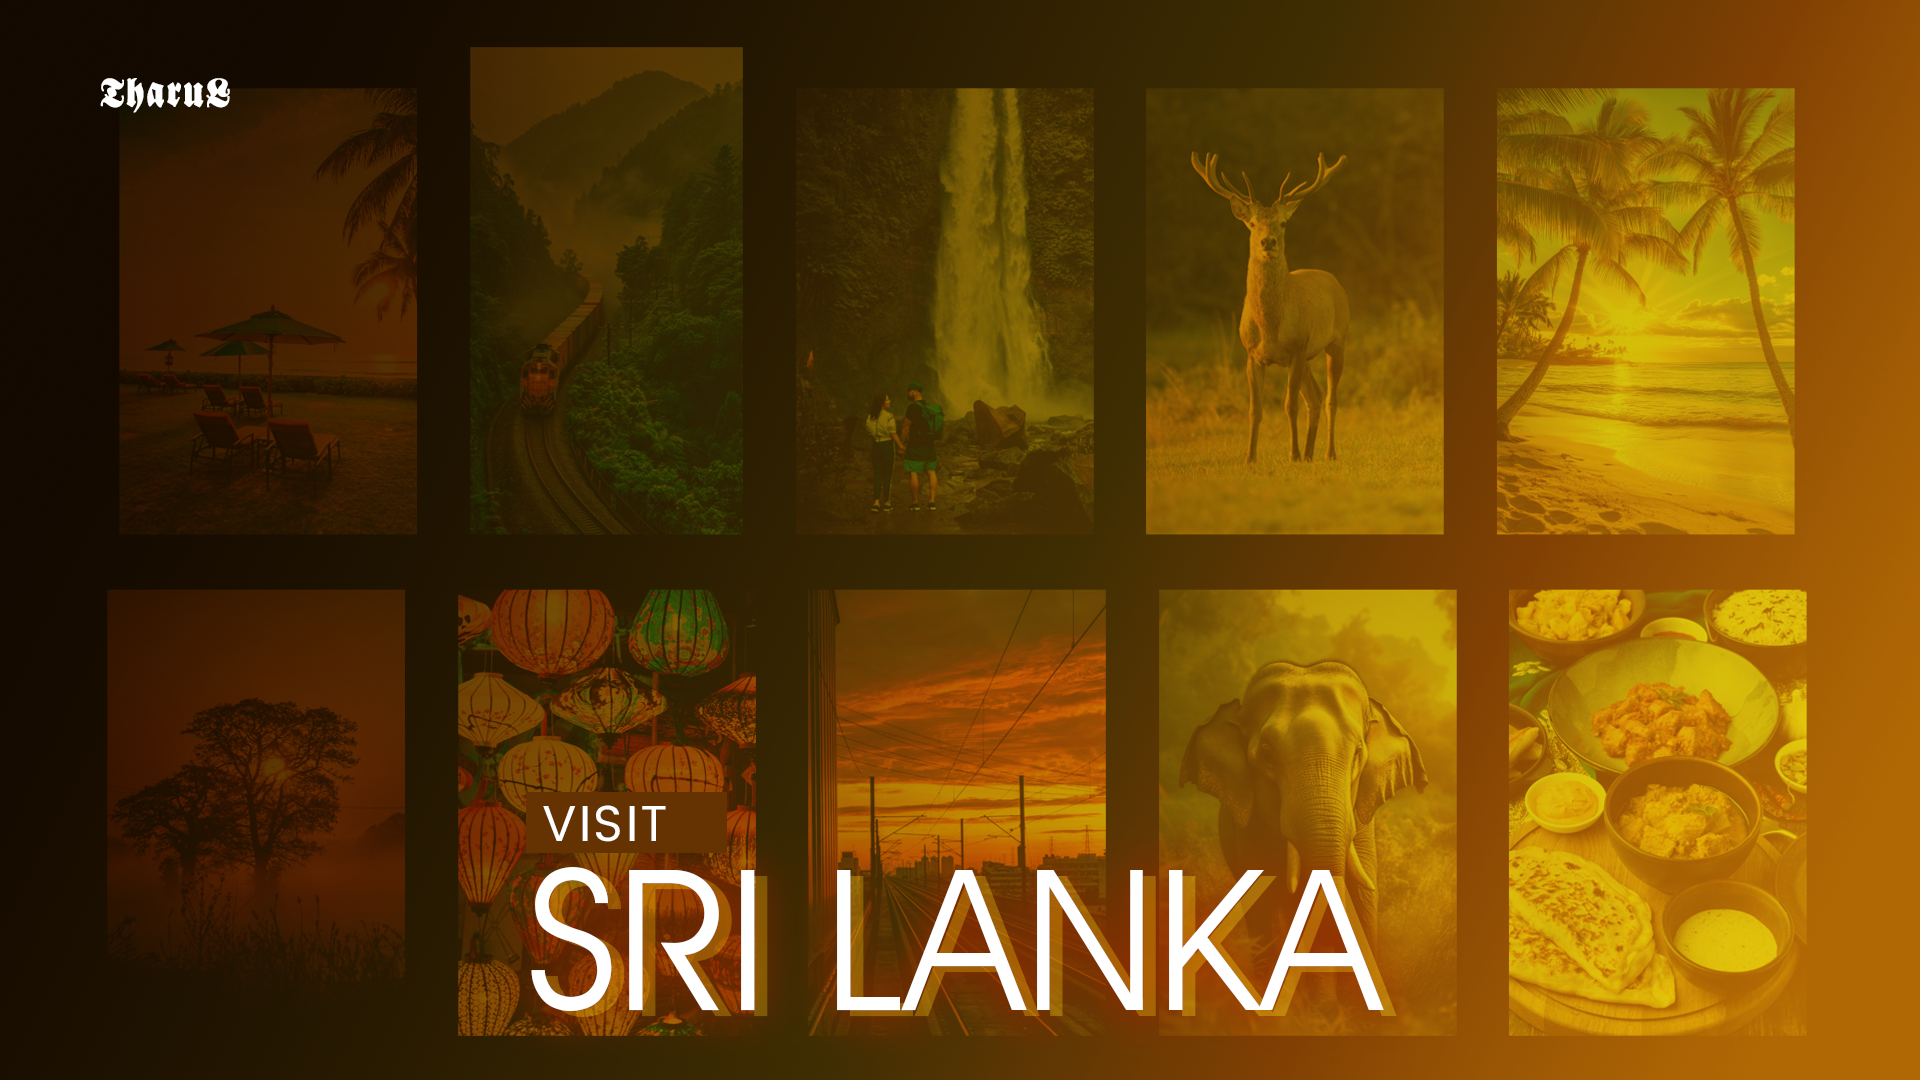
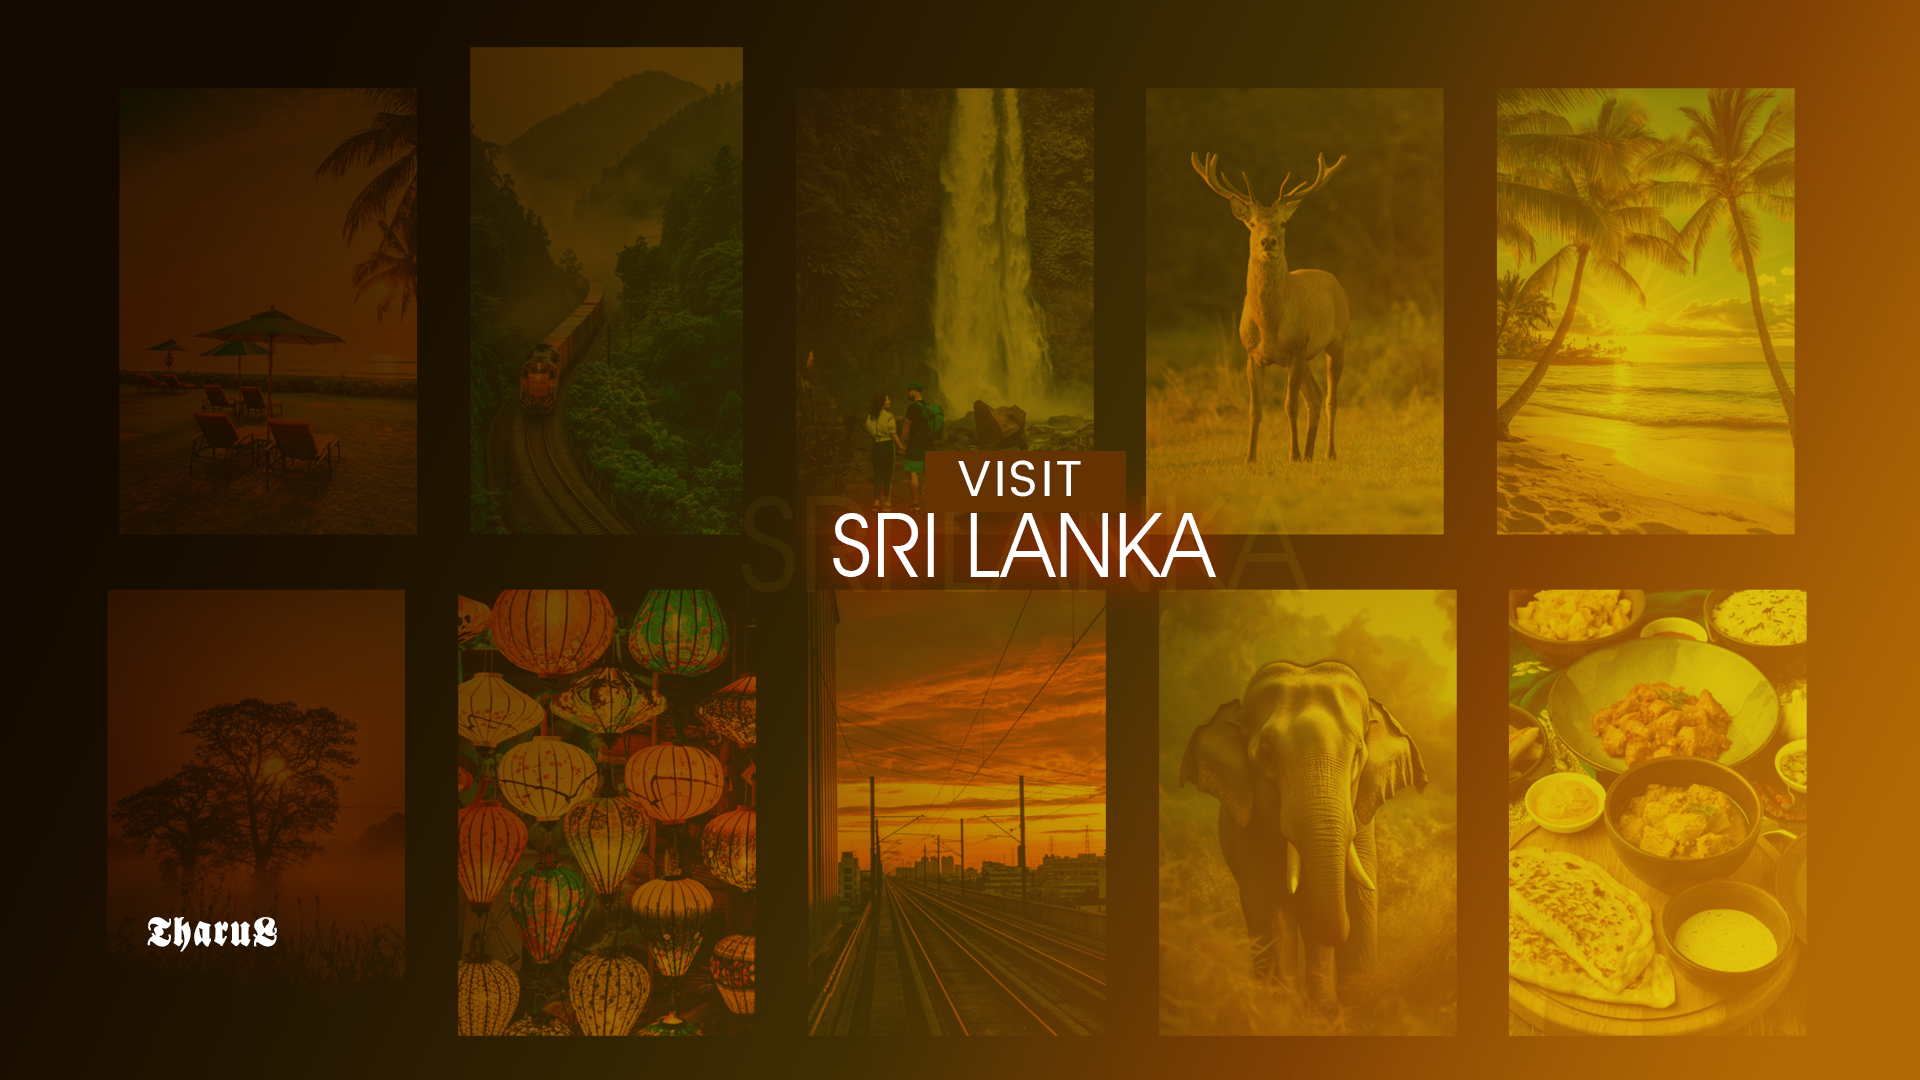
update2
fixing bg img erroe to fit to the window

diff --git a/index.html b/index.html
@@ -26,19 +26,19 @@
             );
         }
         
-        body::before{
-            position: absolute;
-            width: min(1400px, 90vw);
-            top: 10%;
-            left: 50%;
-            height: 90%;
-            transform: translateX(-50%);
-            content: '';
-            background-image: url(images/bg.png);
-            background-size: 100%;
-            background-repeat: no-repeat;
-            background-position: top center;
-            pointer-events: none;
+        body::before {
+        position: absolute;
+        width: 100%; /* Full width */
+        height: 100%; /* Full height */
+        top: 0; /* Start from top edge */
+        left: 0; /* Start from left edge */
+        content: '';
+        background-image: url(images/bg.png);
+        background-size: cover; /* Cover entire container */
+        background-repeat: no-repeat;
+        background-position: center; /* Center the image */
+        pointer-events: none;
+        
         }
     </style>
     <link rel="stylesheet" href="style.css">
@@ -58,19 +58,7 @@
             <div class="item" style="--position: 9"><img src="images/img9.jpg" alt=""></div>
             <div class="item" style="--position: 10"><img src="images/img10.jpg" alt=""></div>
         </div>
-        <div class="content">
-            <h1 data-content="3D IMAGE SLIDER">
-              3D IMAGE SLIDER
-            </h1>
-            <div class="author">
-                <h2>THARUL.J</h2>
-                <p><b>...</b></p>
-                <p>
-                     
-                </p>
-            </div>
-            <div class="model"></div>
-        </div>
+        
     </div>
     
 </body>
